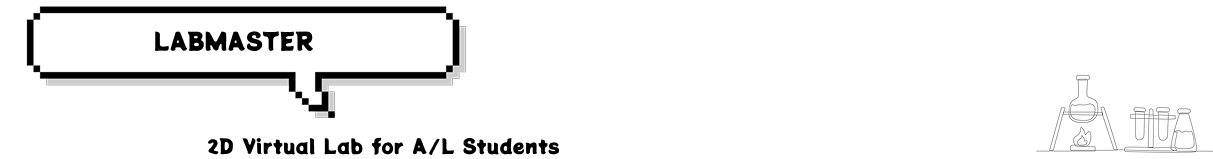
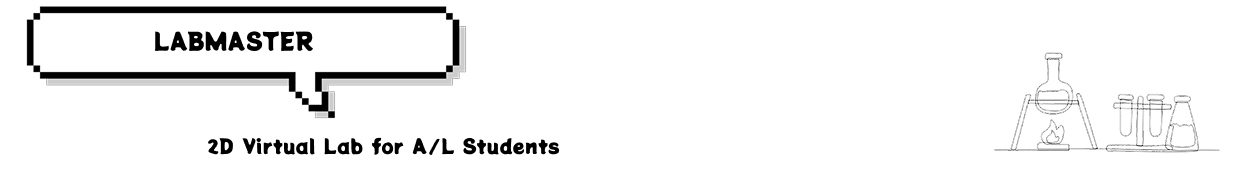
updates

diff --git a/styles.css b/styles.css
@@ -18,19 +18,6 @@ header {
   
 }
 
-
-header h1 {
-    font-size: 2.5rem;
-    margin: 0;
-    color: #333;
-}
-
-header p {
-    font-size: 1.5rem;
-    margin: 0.5rem 0 1rem 0;
-    color: #555;
-}
-
 nav ul {
     display: flex;
     justify-content: right;  
@@ -103,14 +90,13 @@ ul {
   border-radius: 12px;
   color: #000;
   background-size: cover;
-  background-position: center;
-  
+  background-position: center; 
   display: flex;
   flex-direction: column;
   justify-content: space-between;
-  box-shadow: 5px 0px 20px 0px rgba(0,0,0,0.3);
+  box-shadow: 0px 0px 20px 0px rgba(0,0,0,0.3);
   transition: transform 0.3s ease;
-  background-color: #f8f8f8;
+  
 }
 
 .about-me-img {
@@ -173,7 +159,7 @@ ul {
   content: "";
   position: absolute;
   inset: 0;
-  background-color: rgba(255,255,255,0.8); /* White overlay for faded effect */
+  background-color: rgba(255, 249, 241, 0.8); /* White overlay for faded effect */
   border-radius: 12px;
   z-index: 0;
 }
@@ -215,11 +201,12 @@ ul {
   }
   
   .certificate-card {
-    background-color: #f8f8f8;
+    
     border: 1px solid #ddd;
     border-radius: 12px;
     padding: 1rem;
     box-shadow: 10px 10px 12px rgba(0,0,0,0.3);
+    box-shadow: 0px 0px 20px 0px rgba(0,0,0,0.3);
     transition: transform 0.3s ease;
   }
   
@@ -276,11 +263,11 @@ ul {
     display: flex;
     justify-content: center; 
     align-items: center;     
-    background-color: #fdfbfb; 
     border-radius: 10px;  
     border: 1px solid #ddd;
     padding: 1rem;
     box-shadow: 10px 10px 12px rgba(0,0,0,0.3);
+    box-shadow: 0px 0px 20px 0px rgba(0,0,0,0.3);
     transition: transform 0.3s ease;
   }
   
@@ -301,12 +288,12 @@ ul {
 
 .project-text-grid {
   display: grid;
-  flex: 1 1 45%;
-  background-color: #fdfbfb; 
+  flex: 1 1 45%; 
   border-radius: 10px;  
   border: 1px solid #ddd;
   padding: 1rem;
   box-shadow: 10px 10px 12px rgba(0,0,0,0.3);
+  box-shadow: 0px 0px 20px 0px rgba(0,0,0,0.3);
   transition: transform 0.3s ease;
 }
 

diff --git a/index.html b/index.html
@@ -51,7 +51,7 @@
         </div>
     
         <div class="side-image">
-          <img src="images/pic1.jpg" alt="Pic1" class="side-img">
+          <img src="images/pic1.png" alt="Pic1" class="side-img">
         </div>
       </div>
       
@@ -99,13 +99,13 @@
         <h2 class="reveal-left">#CERTIFICATES</h2>
         <div class="certificate-grid">
           <div class="certificate-card">
-            <h3>🏆 Hult Prize 2025</h3>
+            <h3>Hult Prize 2025</h3>
             <p>Participated in the Hult Prize 2025 competition with our <strong>LabMaster</strong> project.</p>
             <a href="#" onclick="openPopup('images/hult-certificate.jpg'); return false;">View Certificate</a>
           </div>
       
           <div class="certificate-card">
-            <h3>🎨 Photoshop Certificate</h3>
+            <h3>Photoshop Certificate</h3>
             <p>Completed a Photoshop Certificate Course at <strong>Live College</strong> in 2020.</p>
             <a href="#" onclick="openPopup('images/photoshop-certificate.jpg'); return false;">View Certificate</a>
           </div>
@@ -129,7 +129,7 @@
               <p>LinkedIn: <a href="https://www.linkedin.com/in/sapna-oshadhee-2481b2240">LinkedIn Link</a></p>
               <p>GitHub: <a href="https://github.com/Oshadhee02">GitHub Link</a></p>
             </div>
-            <img src="images/pic3.jpg" alt="Contact" class="contact-icon">
+            <img src="images/pic3.png" alt="Contact" class="contact-icon">
           </div>
           
         </div>
